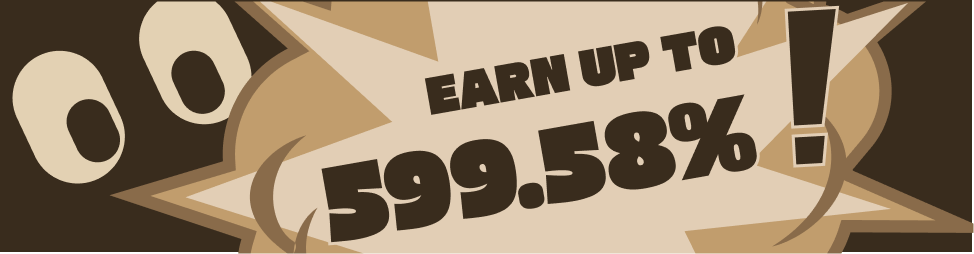
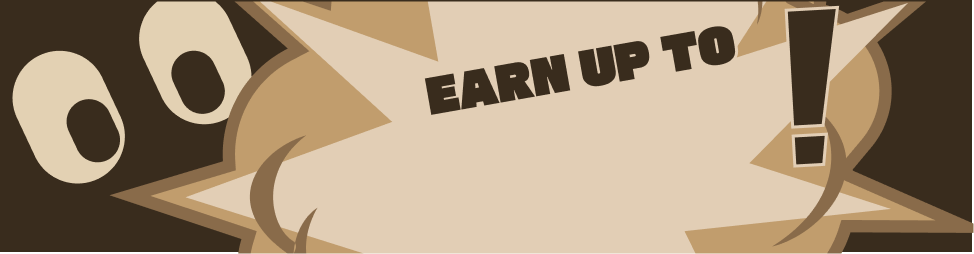
fix ui styles

Changed region(s): [[0.308, 0.3583, 0.8008, 0.9646]]

diff --git a/src/sections/boyco/components/vaults/index.tsx b/src/sections/boyco/components/vaults/index.tsx
@@ -4,6 +4,13 @@ import AssetButton from "@/sections/boyco/components/vaults/asset-button";
 import router from "@/sections/pools/kodiak/island/abi/router";
 import { useRouter } from "next/navigation";
 import React, { useEffect, useImperativeHandle, useRef, useState } from "react";
+import clsx from "clsx";
+import { Gasoek_One } from "next/font/google";
+
+const gasoekOne = Gasoek_One({
+  weight: "400",
+  subsets: ["latin"]
+});
 
 export default React.forwardRef(function Vaults(
   {
@@ -59,11 +66,11 @@ export default React.forwardRef(function Vaults(
   return (
     <>
       <div className="flex lg:items-start w-full lg:justify-between lg:gap-2 md:flex-col">
-      {
-          (!loading && vaultsList?.length > 0) && (
-            isMobile ? 
-              (<img onClick={handleGo} src="/images/boyco/mobile-top.png" className="w-full object-contain cursor-pointer" alt="" />) : 
-              (<img onClick={handleGo} src="/images/boyco/top.png" className="w-[214px] object-contain cursor-pointer" alt="" />)
+        {
+          !loading && vaultsList?.length > 0 && (
+            <div onClick={handleGo} className={clsx(isMobile ? 'bg-[url(/images/boyco/mobile-top.png)] w-full h-[83px]': 'bg-[url(/images/boyco/top.png)] w-[214px] h-[196px]', 'bg-no-repeat bg-contain relative')}>
+              <div className={clsx('text-[#392C1D] text-[32px] leading-[90%] capitalize -rotate-[10deg] absolute md:left-[92px] md:bottom-[20px] lg:left-[30px] lg:bottom-[46px]', gasoekOne.className)}>{process.env.NEXT_PUBLIC_BOYCO_EARNUP || 599.58}%</div>
+            </div>
           )
         }
         <div className="flex-1">

diff --git a/src/sections/boyco/components/modal/index.tsx b/src/sections/boyco/components/modal/index.tsx
@@ -87,7 +87,7 @@ export default function BoycoModal({ onClose }: { onClose: () => void }) {
           </div>
             )
           }
-          <div className="lg:px-[40px] md:px-[20px] lg:pt-[10px] md:w-full flex lg:flex-row md:flex-col lg:h-[calc(100%-250px)] md:h-[520px] md:max-h-[520px] overflow-y-auto">
+          <div className="lg:px-[40px] md:px-[20px] lg:pt-[10px] md:w-full flex lg:flex-row md:flex-col lg:h-[calc(100%-250px)] md:h-[520px] md:max-h-[520px] overflow-x-hidden overflow-y-auto">
             <div className="md:w-full lg:w-1/2 lg:pl-[10px] lg:pr-[30px]">
               <Positions
                 positions={positions}
